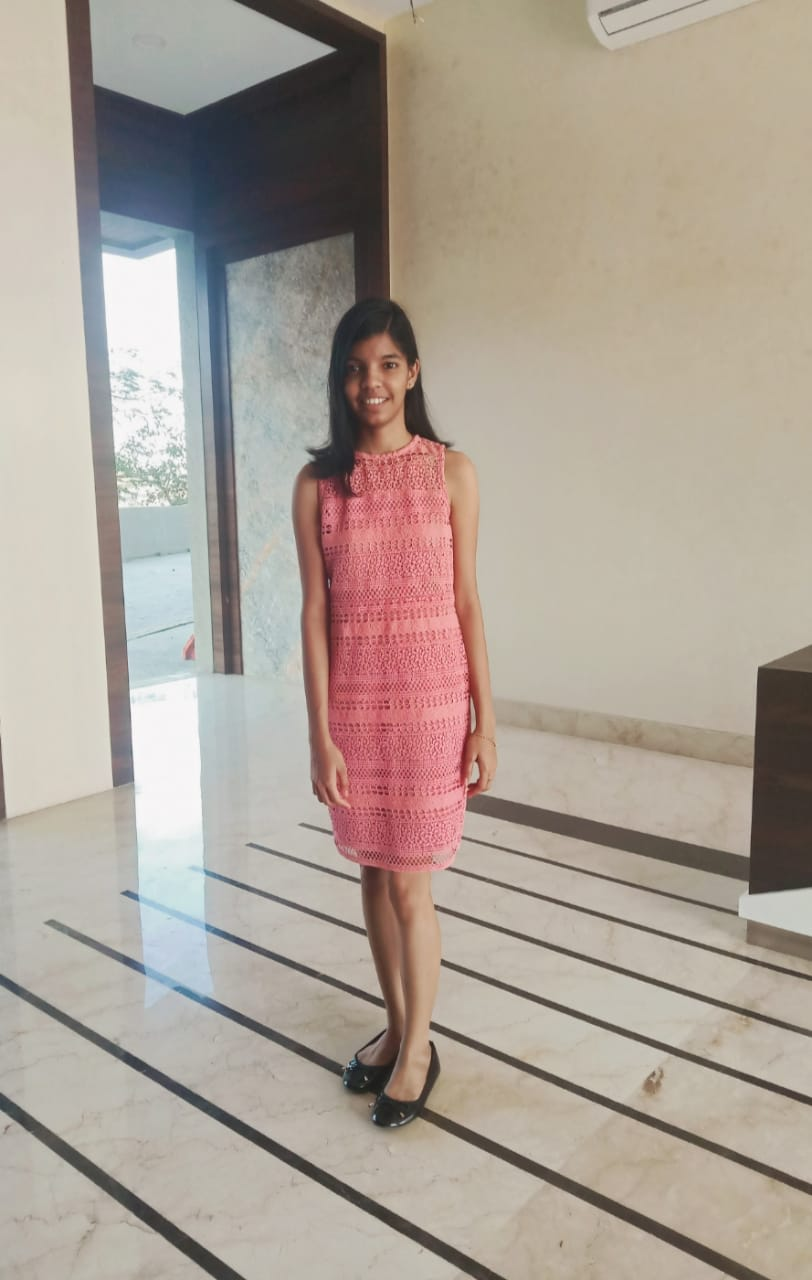
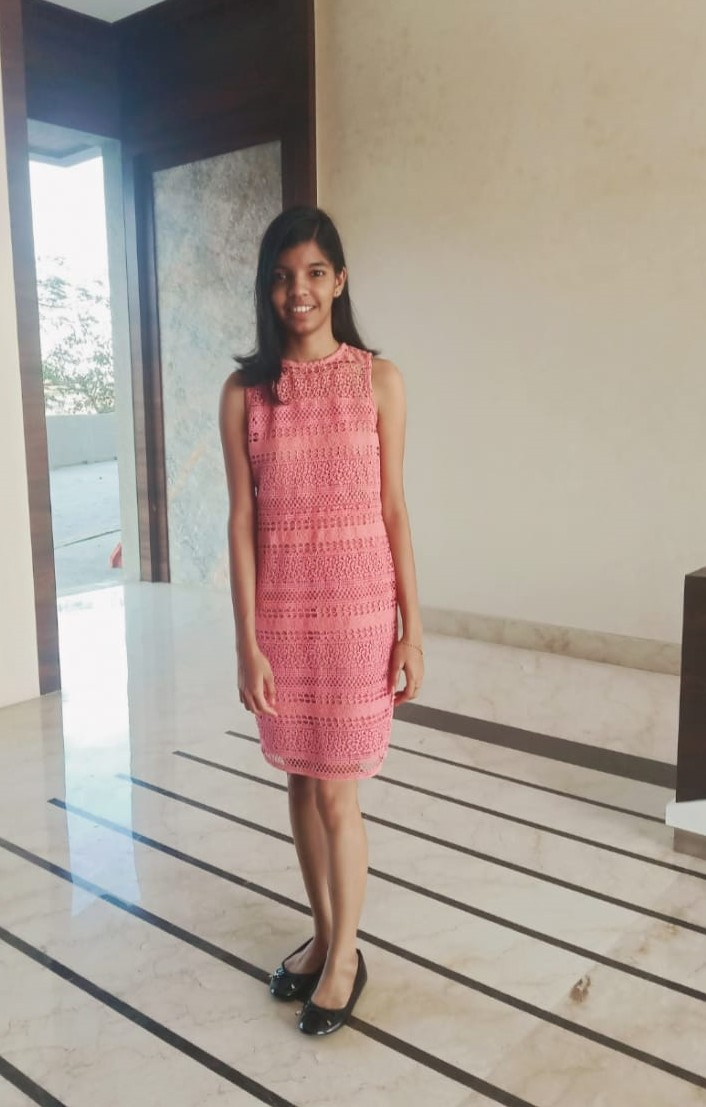
changes

diff --git a/team.html b/team.html
@@ -83,7 +83,7 @@
                 <div class="row">
                     <div class="col-md-4 col-sm-6">
                         <div class="our-team">
-                            <img src="img/team/prajakta.jpg">
+                            <img src="img/team/prajakta1.jpg">
                             <div class="team-content">
                                 <h3 class="title">Prajakta Bhangale</h3>
                                 <span class="post">Teacher Incharge</span>
@@ -209,7 +209,7 @@
                     </div>
                     <div class="col-md-4 col-sm-6">
                         <div class="our-team">
-                            <img src="img/team/pierre (1).jpg">
+                            <img src="img/team/pierre.jpg">
                             <div class="team-content">
                                 <h3 class="title">Pierre Colaco</h3>
                                 <span class="post">Design Head</span>
